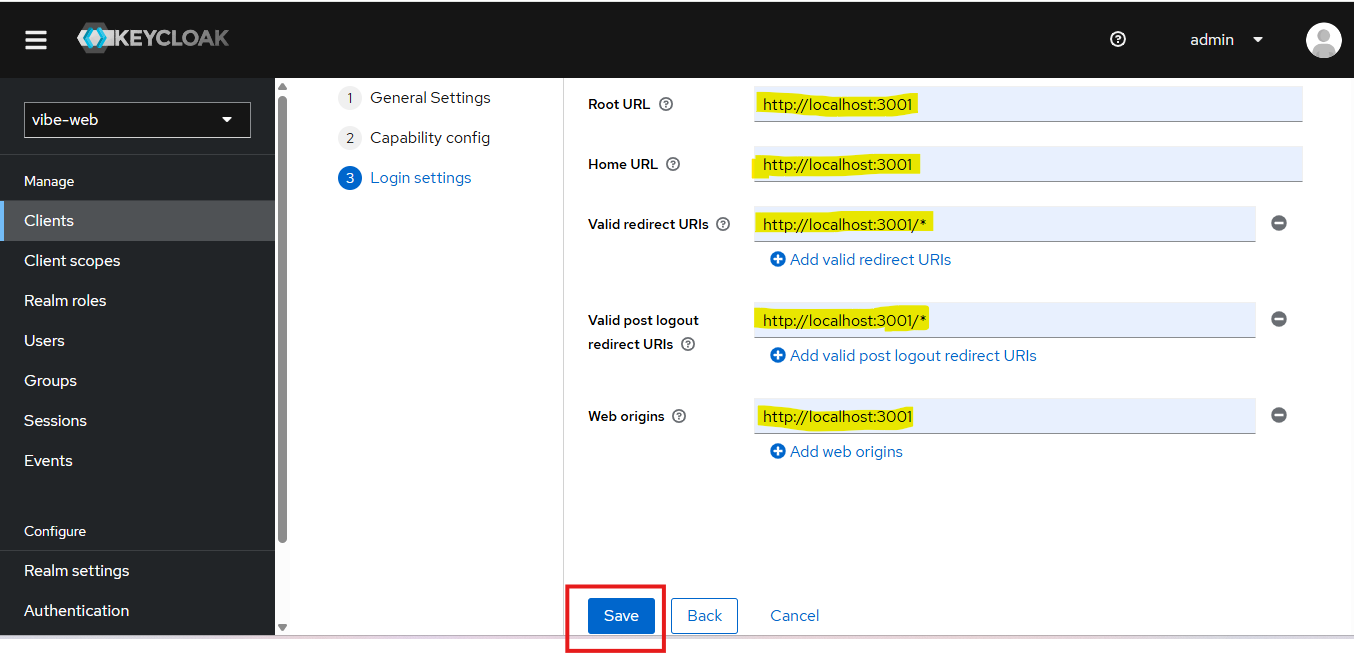
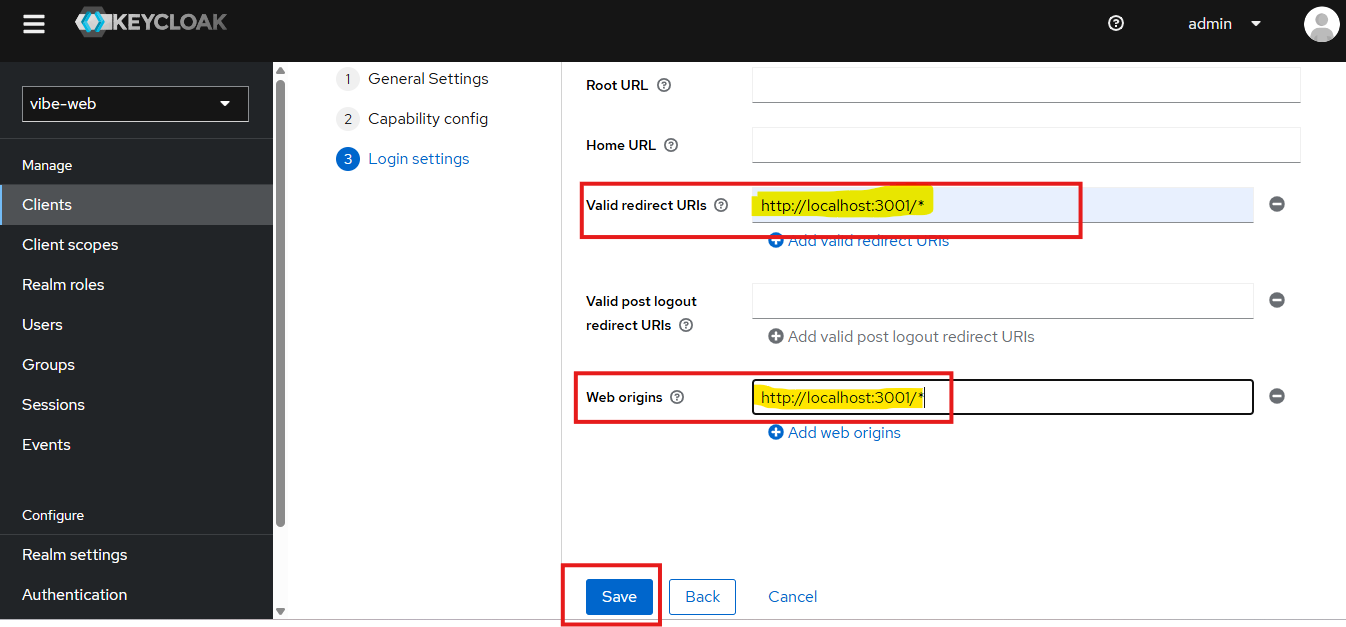
updated docs

diff --git a/README.md b/README.md
@@ -38,6 +38,10 @@ docker-compose up -d
 # 6. Access the application
 # Frontend: https://${SERVER_IP}
 # API Docs: https://${SERVER_IP}/api-docs
+
+# 7. Login to the application
+# Username: vibe-admin
+# Password: vibe-admin
 ```
 
 The application should now be running and accessible.
@@ -226,6 +230,16 @@ curl -k https://<SERVER_IP>/api/health
 # View logs
 docker-compose logs -f
 ```
+
+#### Step 5: Login to Application
+
+Once the application is running, access it at `https://<SERVER_IP>` and login with:
+
+**Default Admin Credentials:**
+- **Username**: `vibe-admin`
+- **Password**: `vibe-admin`
+
+**Note**: For production deployments, change these credentials immediately after first login.
 
 ### Docker Compose Services
 
